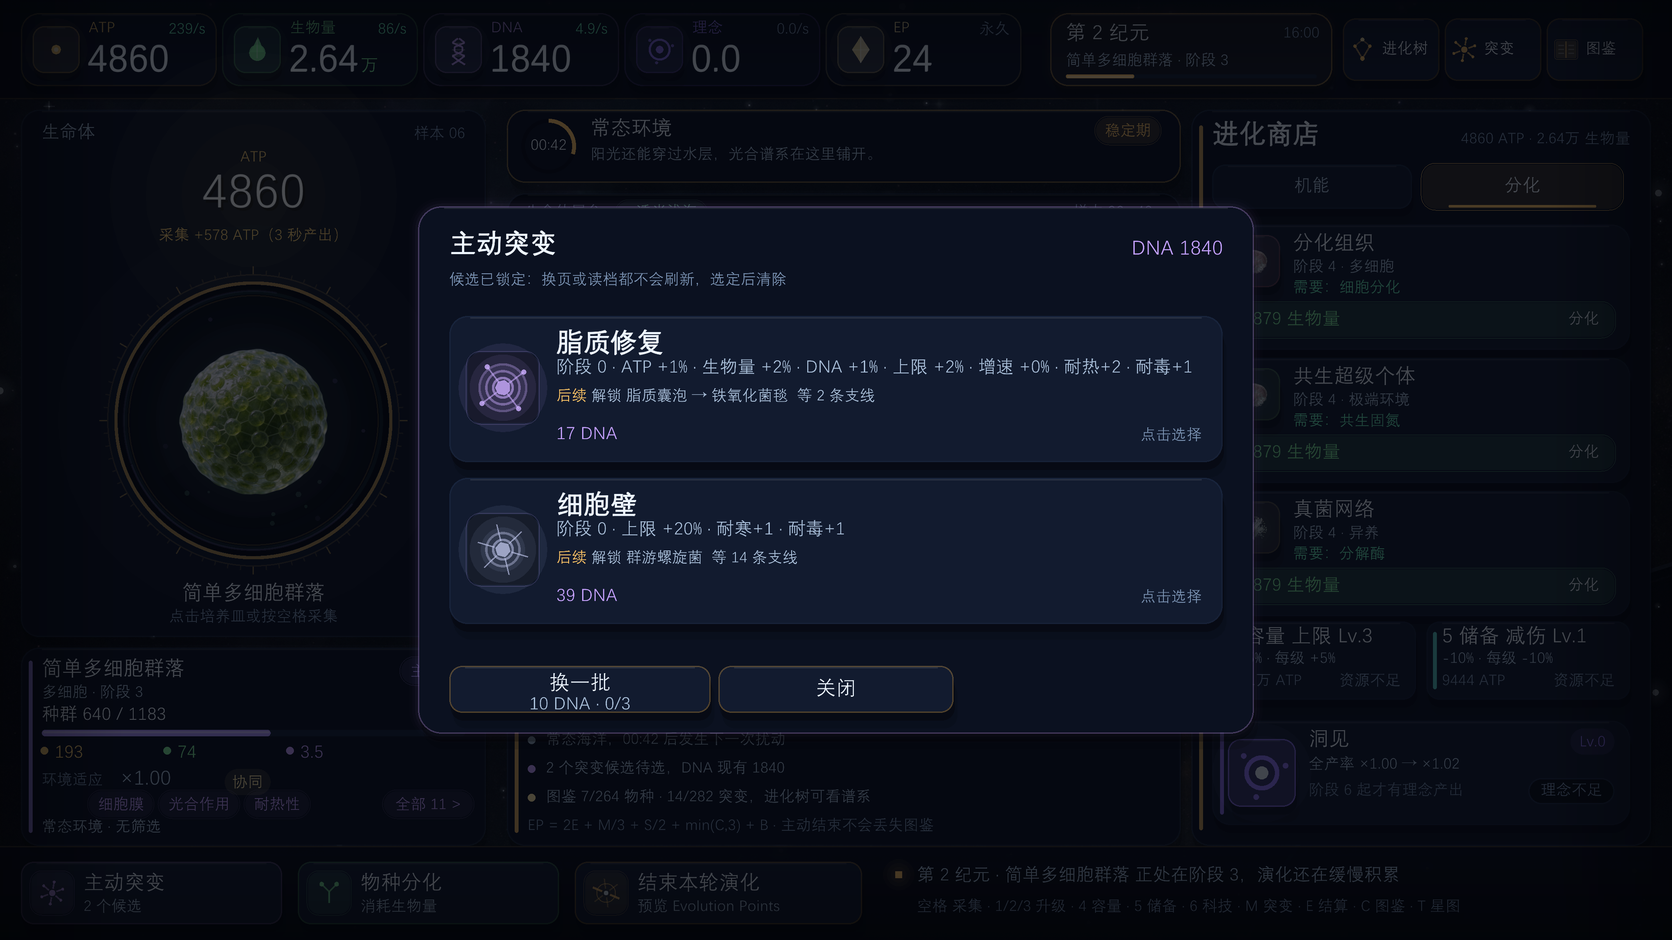
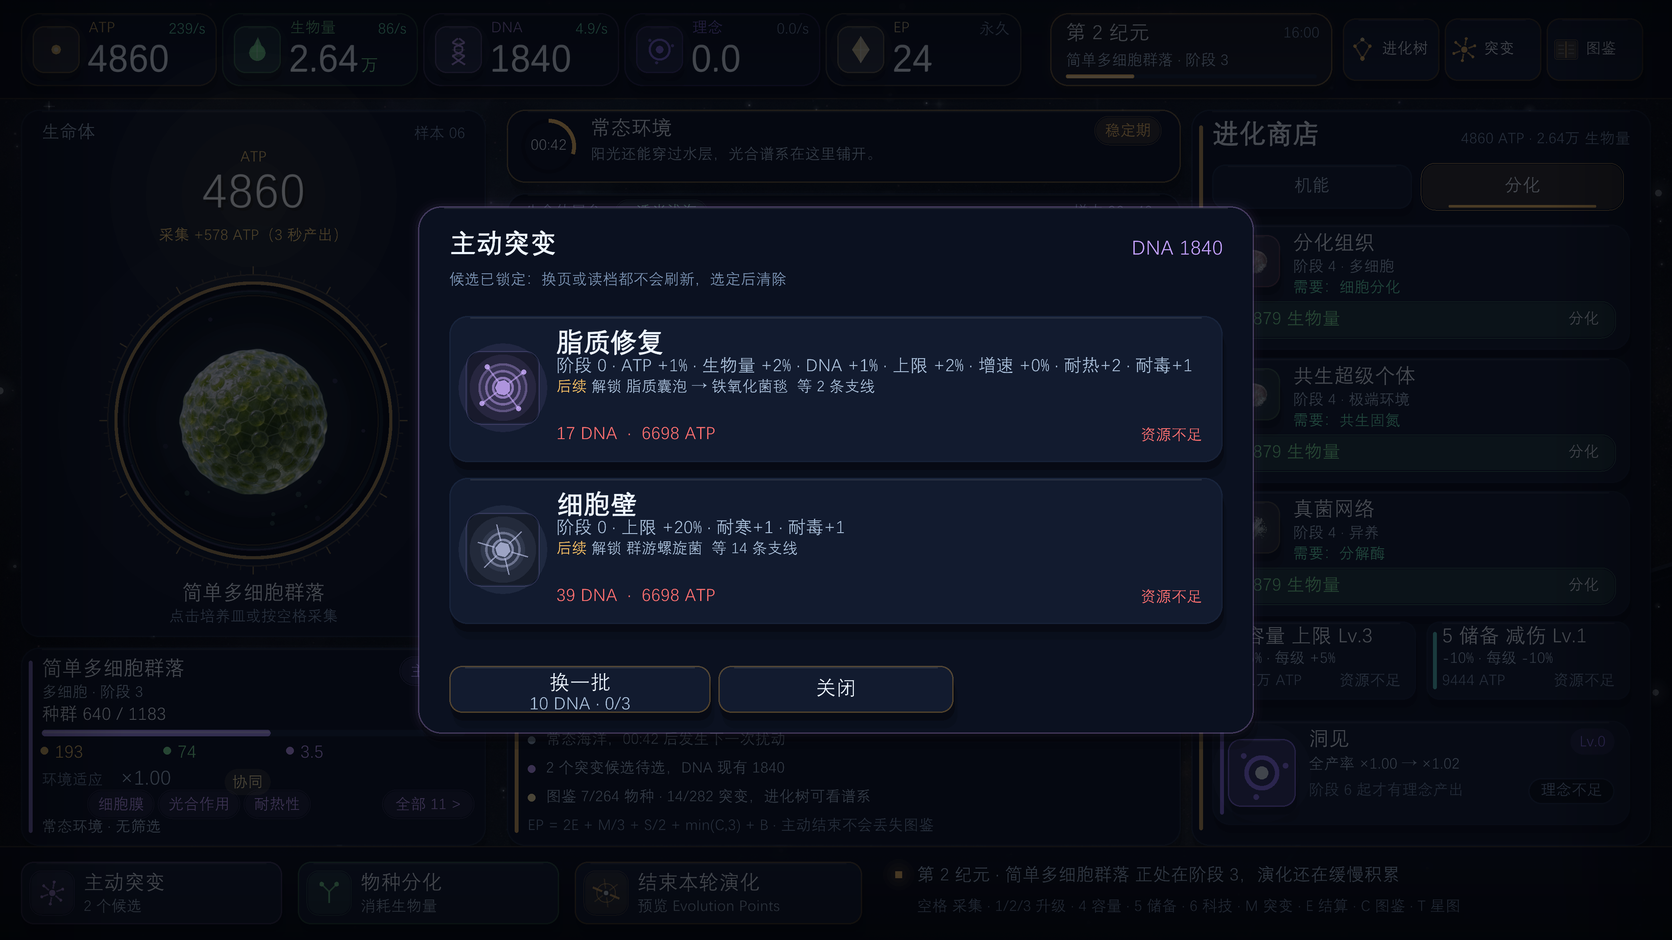
fix(ui): 突变卡补 ATP 门票报价，长文案折行不越界
两个问题的共同根因都是“界面只画了规则的一部分”。

1) 突变是双币，卡面只写 DNA
   evolution_apply_mutation 扣 DNA 之后还会扣 ATP 门票（10 s × 1.12^k，
   k 只数门票卡，地板 3 秒产率）。原来卡面既不显示 ATP，按钮也只判 DNA，
   于是 DNA 够、ATP 不够时卡显示可点、点下去只弹一句「ATP 不足」。
   - ui_adapter 新增 ua_mutation_atp_cost()，1:1 转发，不自乘 1.12^k
   - 卡片可用性改成 DNA 与 ATP 同时满足
   - 价格行双色：DNA 紫 + ATP 黄；右侧提示改「点击选择 / 资源不足」

2) 9 项效果的突变摘要写到卡片边框外
   新增 wrap_text_limited()：按 ui_text_w 实测宽度逐字折行（中文等宽、
   数字与 % 更窄），最多两行，超出补「…」并退到 UTF-8 边界；换行落在
   「·」上时收掉行尾分隔符。路线行同样折一行 + 省略号。描述缓冲 160→224。
   顺带修 text_append()：snprintf 截断可能切在汉字中间，会渲染成方块。

截图：新增 02c（9 项折两行的上限样张），29→30 张；
02/02b 因价格行变化重拍，其余 25 张仅 1 像素抖动不重复提交；
补交此前漏提交的 04d/11_habitats。

验证：0 warning；make test 27 组 130,892 项 + 36 接线 + 集成 + 60 分钟 +
gameplay + codex 通过；test-layout 新增 test_mutation_atp_ticket（报价与规则层
逐值一致、DNA 够 ATP 0 不可点、ATP 刚好够可点、差 1 点不可点）；test-ui 通过。

diff --git a/src/screens.c b/src/screens.c
@@ -4184,13 +4184,16 @@ static void build_overlay(UiLayout *L, const GameState *game, const UIState *S)
     case UI_OVL_MUTATION: {
         Rectangle panel = mutation_panel_rect(game);
         for (int i = 0; i < game->run.mutation_offer.choice_count && i < MAX_MUTATION_CHOICES; ++i) {
-            bool afford = game->run.dna >= game->run.mutation_offer.dna_costs[i];
+            /* 突变是双币：DNA 主价 + ATP 门票。只判 DNA 会让卡面显示“可点”，
+             * 点下去却只弹一句「ATP 不足」，玩家不知道还差多少 —— 所以两边一起判。 */
+            int mid = game->run.mutation_offer.mutation_ids[i];
+            bool afford = game->run.dna >= game->run.mutation_offer.dna_costs[i] &&
+                          game->run.atp >= ua_mutation_atp_cost(game, mid);
             btn_add(L, UI_BTN_CHOOSE_MUTATION,
                     (Rectangle){ panel.x + 24.0f, panel.y + 84.0f + (float)i * 124.0f,
                                  panel.width - 48.0f, 112.0f },
                     game->run.mutation_offer.mutation_ids[i], i, afford);
-        }
-        btn_add(L, UI_BTN_CLOSE_OVERLAY,
+        }        btn_add(L, UI_BTN_CLOSE_OVERLAY,
                 (Rectangle){ panel.x + (panel.width - 180.0f) * 0.5f,
                              panel.y + panel.height - 52.0f, 180.0f, H_SECONDARY }, 0, 0, true);
         if (game->run.mutation_offer.active) {
@@ -4409,6 +4412,68 @@ static void draw_mutation_sigil(Vector2 c, int mutation_id, Color col, bool rare
     draw_mutation_sigil_scaled(c, mutation_id, col, rare, t, 1.0f);
 }
 
+/* 行尾遗留的 "·" 与空格：折行落在分隔符上的话，下一行以内容开头会更干净 */
+static void trim_row_tail(char *s)
+{
+    int n = (int)strlen(s);
+    for (;;) {
+        if (n > 0 && s[n - 1] == ' ') { s[--n] = '\0'; continue; }
+        if (n >= 2 && (unsigned char)s[n - 2] == 0xC2u && (unsigned char)s[n - 1] == 0xB7u) {
+            n -= 2;
+            s[n] = '\0';
+            continue;
+        }
+        break;
+    }
+}
+
+/* 按实测像素宽度折行（中文逐字宽、数字/百分号更窄，不能按字数估）。
+ * 行数用尽时在末行补省略号，必要时从尾部退到 UTF-8 边界再补 —— 卡片是硬边框，
+ * 宁可少读两个效果项，也不能让字冲出框外。返回实际行数。 */
+static int wrap_text_limited(const char *text, float width, float size, int max_rows,
+                             char rows[][192])
+{
+    if (max_rows < 1) max_rows = 1;
+    for (int i = 0; i < max_rows; ++i) rows[i][0] = '\0';
+
+    int row = 0, used = 0;
+    const char *p = text;
+    while (*p) {
+        int bytes = 1;
+        while (p[bytes] && ((unsigned char)p[bytes] & 0xC0u) == 0x80u) ++bytes;
+        char trial[192];
+        memcpy(trial, rows[row], (size_t)used);
+        memcpy(trial + used, p, (size_t)bytes);
+        trial[used + bytes] = '\0';
+        if (used > 0 && ui_text_w(trial, size) > width) {
+            if (row + 1 >= max_rows) break;   /* 行数用尽：剩下的不要了 */
+            trim_row_tail(rows[row]);
+            ++row;
+            used = 0;
+        }
+        memcpy(rows[row] + used, p, (size_t)bytes);
+        used += bytes;
+        rows[row][used] = '\0';
+        p += bytes;
+    }
+
+    if (*p) {
+        char *last = rows[row];
+        int n = (int)strlen(last);
+        float ell = ui_text_w("…", size);
+        while (n > 0 && ui_text_w(last, size) + ell > width) {
+            --n;
+            while (n > 0 && ((unsigned char)last[n] & 0xC0u) == 0x80u) --n;
+            last[n] = '\0';
+        }
+        trim_row_tail(last);
+        strncat(last, "…", sizeof(rows[0]) - strlen(last) - 1);
+    } else {
+        trim_row_tail(rows[row]);
+    }
+    return row + 1;
+}
+
 static void draw_mutation_overlay(const GameState *game, const UIState *S)
 {
     Rectangle panel = mutation_panel_rect(game);
@@ -4463,23 +4528,50 @@ static void draw_mutation_overlay(const GameState *game, const UIState *S)
             ui_text_center("稀有", tag.x + tag.width * 0.5f, tag.y + 4.0f, F_CAPTION, COL_RARE);
         }
 
-        char desc[160];
+        /* 效果摘要最多 9 项（5 项百分比 + 5 项抗性 + 理念），一行必然冲出卡片右边界。
+         * 按实测字宽折两行，仍放不下就末行省略号收口。 */
+        char desc[224];
         ua_mutation_desc(mid, desc, (int)sizeof(desc));
-        ui_text(desc, r.x + 82.0f, r.y + 32.0f, F_BODY, COL_DIM);
+        char drow[3][192];
+        float text_w = r.width - 82.0f - 16.0f;
+        int drows = wrap_text_limited(desc, text_w, F_BODY, 2, drow);
+        for (int k = 0; k < drows; ++k) {
+            ui_text(drow[k], r.x + 82.0f, r.y + 31.0f + (float)k * 15.0f, F_BODY, COL_DIM);
+        }
+        float below = r.y + 31.0f + (float)drows * 15.0f;
 
         /* 路线预告：选之前就知道这条路后面会解锁哪些物种。
-         * 名字与走向由适配层从"前置突变 → 物种 → 子代"现查，UI 不复制规则表。 */
+         * 名字与走向由适配层从"前置突变 → 物种 → 子代"现查，UI 不复制规则表。
+         * 三跳物种名同样会超宽，按剩余宽度折一行 + 省略号。 */
         char route[192];
         ua_mutation_route(mid, route, (int)sizeof(route));
-        ui_text("后续", r.x + 82.0f, r.y + 55.0f, F_CAPTION, COL_ACCENT);
-        ui_text(route, r.x + 82.0f + ui_text_w("后续 ", F_CAPTION), r.y + 55.0f,
+        float route_y = below + 2.0f;
+        ui_text("后续", r.x + 82.0f, route_y, F_CAPTION, COL_ACCENT);
+        float route_w = text_w - ui_text_w("后续 ", F_CAPTION);
+        char rrow[2][192];
+        wrap_text_limited(route, route_w, F_CAPTION, 1, rrow);
+        ui_text(rrow[0], r.x + 82.0f + ui_text_w("后续 ", F_CAPTION), route_y,
                 F_CAPTION, COL_DIM);
 
-        char cost[48];
+        /* 双币报价：DNA 主价（紫）+ ATP 门票（黄）。ATP 门票随已购张数上涨，
+         * 不写出来玩家不会知道“为什么 DNA 够了还是买不了”。 */
+        char cost[64];
+        float cx = r.x + 82.0f;
         ui_fmt_num(game->run.mutation_offer.dna_costs[i], num, (int)sizeof(num));
         snprintf(cost, sizeof(cost), "%s DNA", num);
-        ui_text(cost, r.x + 82.0f, r.y + 83.0f, F_BODY, usable ? COL_DNA : COL_BAD);
-        ui_text_right("点击选择", r.x + r.width - 16.0f, r.y + 85.0f, F_CAPTION, COL_FAINT);
+        ui_text(cost, cx, r.y + 83.0f, F_BODY, usable ? COL_DNA : COL_BAD);
+        cx += ui_text_w(cost, F_BODY);
+
+        double atp_price = ua_mutation_atp_cost(game, mid);
+        if (atp_price > 0.0) {
+            char an[32];
+            ui_fmt_num(atp_price, an, (int)sizeof(an));
+            snprintf(cost, sizeof(cost), "  ·  %s ATP", an);
+            ui_text(cost, cx, r.y + 83.0f, F_BODY, usable ? COL_ATP : COL_BAD);
+        }
+
+        ui_text_right(usable ? "点击选择" : "资源不足", r.x + r.width - 16.0f, r.y + 85.0f,
+                      F_CAPTION, usable ? COL_FAINT : COL_BAD);
     }
 
     UiButton *refresh = btn_find(S, UI_BTN_REFRESH_MUTATION, -1);

diff --git a/tests/test_ui_layout.c b/tests/test_ui_layout.c
@@ -220,6 +220,67 @@ static void test_mut_list_scroll(void)
     puts("Mutation list: wheel hit-test, scroll range and no-scroll case passed");
 }
 
+/* 突变是双币：DNA 主价（offer 里）+ ATP 门票（随已购张数涨）。
+ * 卡面若只判 DNA，DNA 够而 ATP 不够时会显示“可点”，点下去只弹一句「ATP 不足」，
+ * 玩家看不到还差多少。这里同时锁两件事：报价必须 1:1 转发规则层、ATP 必须参与按钮可用性。 */
+static void test_mutation_atp_ticket(void)
+{
+    GameState game;
+    game_init(&game);
+    game.run.active_species_count = 1;
+    game.run.active_species[0].species_id = SPECIES_CYANOBACTERIUM;
+    game.run.active_species[0].population = 120.0;
+
+    int mid = -1;
+    for (int id = 0; id < MUTATION_COUNT; ++id) {
+        const MutationDef *def = mutation_get(id);
+        if (def && def->min_phase >= MUTATION_ATP_MIN_PHASE) { mid = id; break; }
+    }
+    assert(mid >= 0);
+    double ticket = ua_mutation_atp_cost(&game, mid);
+    assert(ticket > 0.0);
+    /* 转发而不是重算：与规则层必须逐值相同（k 的口径一改就露馅） */
+    assert(fabs(ticket - evolution_mutation_atp_cost(&game, mid)) < 1e-9);
+
+    game.run.mutation_offer.active = true;
+    game.run.mutation_offer.species_slot = 0;
+    game.run.mutation_offer.choice_count = 1;
+    game.run.mutation_offer.mutation_ids[0] = mid;
+    game.run.mutation_offer.dna_costs[0] = 1.0;
+
+    memset(&g_ui, 0, sizeof g_ui);
+    g_ui.screen = UI_SCREEN_MAIN;
+    g_ui.overlay = UI_OVL_MUTATION;
+
+    /* DNA 远远够、ATP 为 0 → 必须不可点 */
+    game.run.dna = 1e9;
+    game.run.atp = 0.0;
+    screens_build(&g_ui.layout, &game, &g_ui);
+    int seen = 0;
+    for (int i = 0; i < g_ui.layout.count; ++i) {
+        const UiButton *b = &g_ui.layout.items[i];
+        if (b->id != UI_BTN_CHOOSE_MUTATION) continue;
+        ++seen;
+        assert(!b->enabled);
+    }
+    assert(seen == 1);
+
+    /* ATP 刚好够 → 可点；差 1 点 → 又不可点（边界不能含糊） */
+    game.run.atp = ticket;
+    screens_build(&g_ui.layout, &game, &g_ui);
+    for (int i = 0; i < g_ui.layout.count; ++i) {
+        const UiButton *b = &g_ui.layout.items[i];
+        if (b->id == UI_BTN_CHOOSE_MUTATION) assert(b->enabled);
+    }
+    game.run.atp = ticket - 1.0;
+    screens_build(&g_ui.layout, &game, &g_ui);
+    for (int i = 0; i < g_ui.layout.count; ++i) {
+        const UiButton *b = &g_ui.layout.items[i];
+        if (b->id == UI_BTN_CHOOSE_MUTATION) assert(!b->enabled);
+    }
+    puts("Mutation ATP ticket: forwarded 1:1 and gates the card together with DNA");
+}
+
 int main(void)
 {
     GameState game;
@@ -227,6 +288,8 @@ int main(void)
     test_routes(&game);
     test_codex_navigation();
     test_mutation_desc_scaling();
+    test_mut_list_scroll();
+    test_mutation_atp_ticket();
     memset(&g_ui, 0, sizeof g_ui);
     g_ui.overlay = UI_OVL_TREE;
     screens_build(&g_ui.layout, &game, &g_ui);
@@ -257,7 +320,6 @@ int main(void)
         insight += button->id == UI_BTN_BUY_INSIGHT && button->enabled;
     }
     assert(collect == 1 && insight == 1);
-    test_mut_list_scroll();
     puts("UI layout: every route page, all tree nodes, reward and insight controls passed");
     return 0;
 }

diff --git a/src/ui_adapter.c b/src/ui_adapter.c
@@ -333,6 +333,15 @@ double ua_mutation_refresh_cost(const GameState *game)
     return evolution_mutation_refresh_cost(game);
 }
 
+double ua_mutation_atp_cost(const GameState *game, int mutation_id)
+{
+    /* 只转发。这条报价随“本纪元已买张数”变化，所以每次现算；
+     * 一旦在 UI 侧缓存或自己乘 1.12^k，k 的口径调整（v19 D1 改成只数门票卡）
+     * 就会静默错位 —— 上次属性卡涨价就是栽在这里。 */
+    if (!game) return 0.0;
+    return evolution_mutation_atp_cost(game, mutation_id);
+}
+
 const char *ua_mutation_name(int mutation_id)
 {
     const CodexEntry *entry = codex_entry(CODEX_MUTATION, mutation_id);
@@ -345,8 +354,16 @@ static void text_append(char *buf, int size, size_t *used, const char *piece)
     if (!buf || size <= 1 || *used >= (size_t)size - 1) return;
     int n = snprintf(buf + *used, (size_t)size - *used, "%s", piece);
     if (n <= 0) return;
+    if (*used + (size_t)n >= (size_t)size) {
+        /* 空间不足被硬截断。snprintf 可能正好切在一个汉字中间，
+         * 剩下的半个 UTF-8 序列会渲染成方块/乱码 —— 退到字符边界再收尾。 */
+        size_t end = (size_t)size - 1;
+        while (end > *used && ((unsigned char)buf[end - 1] & 0xC0u) == 0x80u) --end;
+        buf[end] = '\0';
+        *used = end;
+        return;
+    }
     *used += (size_t)n;
-    if (*used > (size_t)size - 1) *used = (size_t)size - 1;
 }
 
 const char *ua_mutation_desc(int mutation_id, char *buf, int buf_size)

diff --git a/src/main.c b/src/main.c
@@ -640,6 +640,17 @@ static void capture_screen(const GameState *base, const char *first_file)
     ui_debug_force(UI_SCREEN_MAIN, UI_OVL_MUTATION);
     ui_debug_capture(&game, "shot_02b_mutation_late.png");
     ui_debug_force(UI_SCREEN_MAIN, UI_OVL_NONE);
+
+    /* 文案上限：9 项效果（5 项百分比 + 抗性 + 理念）在 592px 卡宽里一行放不下，
+     * 会折两行。这张锁住“描述与后续绝不越出卡片右边框”。 */
+    game.run.mutation_offer.active = true;
+    game.run.mutation_offer.species_slot = 0;
+    game.run.mutation_offer.choice_count = 1;
+    game.run.mutation_offer.mutation_ids[0] = MUTATION_CHLOROPLAST_ENDOSYMBIOSIS;
+    game.run.mutation_offer.dna_costs[0] = 4200.0;
+    ui_debug_force(UI_SCREEN_MAIN, UI_OVL_MUTATION);
+    ui_debug_capture(&game, "shot_02c_mutation_long.png");
+    ui_debug_force(UI_SCREEN_MAIN, UI_OVL_NONE);
 #endif
 
     /* 早期杆状菌：培养皿 + 展台里的生物都必须落在自己的画框内 */
@@ -663,5 +674,5 @@ static void capture_screen(const GameState *base, const char *first_file)
     /* 生境样张：8 种大环境并排，核对"每个阶段站在什么地上" */
     ui_debug_capture_habitats("shot_11_habitats.png");
 
-    TraceLog(LOG_INFO, "shot capture done: 27 frames");
+    TraceLog(LOG_INFO, "shot capture done: 30 frames");
 }

diff --git a/include/ui_adapter.h b/include/ui_adapter.h
@@ -112,6 +112,11 @@ const char *ua_species_route(int species_id, char *buf, int buf_size);
 /* ================= B 侧：突变 ================= */
 
 double ua_mutation_refresh_cost(const GameState *game);
+/* 突变是双币：DNA 主价（在 mutation_offer.dna_costs 里）+ ATP 门票。
+ * ATP 门票 = 10 s × 1.12^k 的主谱系 ATP 产率（k 只数门票卡），
+ * 且随已购张数变化 —— 所以每次打开都要向规则层现问，不能缓存。
+ * 直接转发 evolution_mutation_atp_cost，UI 不复制这条公式。 */
+double ua_mutation_atp_cost(const GameState *game, int mutation_id);
 const char *ua_mutation_name(int mutation_id);
 const char *ua_mutation_desc(int mutation_id, char *buf, int buf_size);
 bool ua_mutation_is_rare(int mutation_id);

diff --git a/README.md b/README.md
@@ -42,7 +42,7 @@
 - **四处共用一套**：展台（标题旁多一个生境 chip，如「城市与技术圈」）、图鉴大图（底部写「物种图鉴 · 湿地与森林」）、培养皿（液体与沉积跟着生境换色，不再是永恒的海水蓝）、全屏上下边缘的极淡环境色晕（≤0.055 alpha，不压中心）。
 - **横幅不再一律写「常态海洋」**：常态期且生境已上岸时，横幅显示「常态 · 湿地与森林」并换成该生境的说明；危机 / 丰饶事件仍用规则层原名。
 - **顺手修掉一个内容扩容 bug**：`ecology_color()` 的手工色板只有 20 项，v14 扩到 264 个物种后，后 244 个物种取到的是 alpha=0 的透明黑，图鉴里过半生物会「消失」。现在主线 20 个保留原色，其余按「阶段基色 + id 抖动」派生，既有稳定色相又不会全透明。
-- **产物**：`shot_11_habitats.png`（8 格生境样张，一张图核对每个阶段站在什么地上）与 `shot_04d_codex_habitat.png`（图鉴大图里的湿地背景）；本轮 4K 截图 25 → 27 张（其后追加两张滚轮样张，共 29 张）。
+- **产物**：`shot_11_habitats.png`（8 格生境样张，一张图核对每个阶段站在什么地上）与 `shot_04d_codex_habitat.png`（图鉴大图里的湿地背景）；本轮 4K 截图 25 → 27 张（其后追加两张滚轮样张与一张长文案样张，共 30 张）。
 
 ### 突变图谱：滚轮查看全部（2026-11-28 下午）
 
@@ -115,7 +115,7 @@ mingw32-make test          # 三组真实规则/集成回归，无测试替身
 mingw32-make test-ui       # 真实点击入账与界面飘字一致性
 mingw32-make demo          # 可选的规则实验控制台
 mingw32-make dist          # 单文件版：资源编进 exe → dist/TreeOfLife.exe
-.\treeoflife.exe --shot --ss 3  # 29 张 3840×2160 演示截图
+.\treeoflife.exe --shot --ss 3  # 30 张 3840×2160 演示截图
 ```
 
 ### v14 内容扩容与定价终版（2026-11-27 夜）
@@ -144,7 +144,7 @@ mingw32-make dist          # 单文件版：资源编进 exe → dist/TreeOfLife
 `assets/` 里的等线字体、两张纹理、三个音效、19 张形态族插画编成目标文件链进可执行文件，运行时由
 `src/embedded.c` 从内存解码（`LoadFontFromMemory` / `LoadImageFromMemory` /
 `LoadWaveFromMemory`），并用 `-static -static-libgcc` 静态链接 raylib 与 GCC 运行时。
-拷到任何目录双击即可开玩，只依赖系统自带的 user32/gdi32/opengl32 等 DLL。19 张标本图按 1536px 原尺寸进显存，4K 截图里与 UI 文字接近 1:1，空目录实测导出 29 张截图、生物贴图正常。
+拷到任何目录双击即可开玩，只依赖系统自带的 user32/gdi32/opengl32 等 DLL。19 张标本图按 1536px 原尺寸进显存，4K 截图里与 UI 文字接近 1:1，空目录实测导出 30 张截图、生物贴图正常。
 
 普通构建（`mingw32-make`）不带 `-DEMBED_ASSETS`，`emb_get()` 恒返回 false，仍按
 `assets/` 相对路径读盘 —— 开发期换图、换字体立刻生效，不用重编内嵌数据。
@@ -163,7 +163,7 @@ mingw32-make dist          # 单文件版：资源编进 exe → dist/TreeOfLife
 - `docs/`：设计说明和美术说明；`tree-of-life-b/`：队友规则研究报告，历史实验不代表当前整合版的平衡结论。
 - `demo/`、`tools/reports/`：规则实验入口及报告生成源脚本。报告生成依赖的实验 CSV 需在脚本同目录重新生成。
 - `deliverables/Tree-of-Life/`、`deliverables/Tree-of-Life-20261126.zip`：当前统一试玩版。
-- `deliverables/screens/`：本轮统一版 29 张截图（含随机因子、增益状态、星图缩放、陨石危机、早期杆菌与微光期、8 格生境样张与图鉴生境大图，以及突变图谱滚轮的顶部/底部两张）。
+- `deliverables/screens/`：本轮统一版 30 张截图（含随机因子、增益状态、星图缩放、陨石危机、早期杆菌与微光期、8 格生境样张与图鉴生境大图、突变图谱滚轮顶部/底部，以及 9 项效果折两行的长文案样张）。
 - `AGENTS.md`、`WORK_LOG.md`：持续工作规则和可核实进度。
 
 ## 图鉴卡片（2026-11-27）

diff --git a/WORK_LOG.md b/WORK_LOG.md
@@ -683,3 +683,43 @@ G3 末/中 = 0.872/0.837 = **1.042** PASS；G4 物种中位 **17**（P10 17 / P9
   gameplay + codex；`test-layout`（含新增命中测试）与 `test-ui`（25 次点击）通过。
 - 4K 核对：顶部帧显示第 1–12 项、第 5 行露出一半被裁掉；底部帧显示第 9–20 项、滑块贴底；
   两帧均无格子越界，中文无缺字（字形集 1653 → 1654）。
+
+---
+
+## 2026-11-28 傍晚 · 突变双币报价上屏 + 长文案折行（C 界面层）
+
+**问题一（回答玩家提问时发现）**：突变卡只写「509 DNA」，但 `evolution_apply_mutation`
+在扣 DNA 之后还会扣一笔 ATP 门票（`evolution_mutation_atp_cost` = 10 s × 1.12^k 的主谱系
+ATP 产率，k 只数门票卡，地板 3 秒产率）。ATP 不够时只弹一句「ATP 不足」，卡面既不显示
+要多少，按钮还显示成可点 —— 玩家会以为「DNA 够就能买」。
+
+**问题二（用户截图）**：「叶绿体内共生」这类 9 项效果的突变，摘要一行写到卡片右边框外，
+压到背景里的扩张卡上。
+
+**改动**
+
+- `include/ui_adapter.h` + `src/ui_adapter.c`：新增 `ua_mutation_atp_cost()`，直接转发
+  `evolution_mutation_atp_cost`。**不缓存、不自乘 1.12^k** —— 这条报价随已购张数变化，
+  v19 把 k 的口径从「三槽合计」改成「只数门票卡」，UI 一旦自己算就会静默错位。
+- `src/screens.c`：
+  · 候选卡的可用性从「只判 DNA」改成「DNA 与 ATP 同时满足」，与 `evolution_apply_mutation`
+    的两道检查一一对应；
+  · 价格行画成双色：DNA 紫 + ATP 黄（`COL_DNA` / `COL_ATP`），ATP 为 0 时不画；
+  · 右侧提示从固定「点击选择」改成「点击选择 / 资源不足」，不可点时直接说结论。
+- `src/screens.c` 新增 `wrap_text_limited()` + `trim_row_tail()`：按 `ui_text_w` 实测宽度
+  逐字折行（中文等宽、数字与 % 更窄，按字数估算会算错），最多两行，超出行数在末行补
+  「…」并从尾部退到 UTF-8 边界；换行落在分隔符上时把行尾的「·」收掉。描述缓冲 160 → 224。
+  路线行（「解锁 A → B → C」）同样按剩余宽度折一行 + 省略号。
+- `src/ui_adapter.c` 修 `text_append()`：`snprintf` 硬截断可能正好切在汉字中间，剩下的半个
+  UTF-8 序列会渲染成方块。现在截断后回退到字符边界。
+- 截图：新增 `shot_02c_mutation_long.png`（9 项效果折两行的上限样张），`--shot` 29 → 30。
+- 测试：`test_ui_layout` 新增 `test_mutation_atp_ticket()` —— 断言报价与规则层逐值一致、
+  DNA 给足但 ATP 为 0 时卡片不可点、ATP 刚好够可点、差 1 点又不可点。
+
+**验证**
+
+- 0 warning / 0 error；`make test` 27 组 130,892 项 + 36 项接线 + 集成 + 60 分钟回归 +
+  gameplay + codex 全通过；`test-layout`（含新测试）与 `test-ui`（25 次点击）通过。
+- 4K 核对：「叶绿体内共生」两行完整（`阶段 2 · ATP +2% · 生物量 +3% · DNA +2% · 上限 +3% ·
+  增速 +1% · 耐热+1 · 耐寒+1` / `耐毒+1`），首行末尾无残留「·」，全程不越右边框；
+  「火箭技术」显示 `509 DNA · 3.13万 ATP`，分化卡与图谱未受影响。
